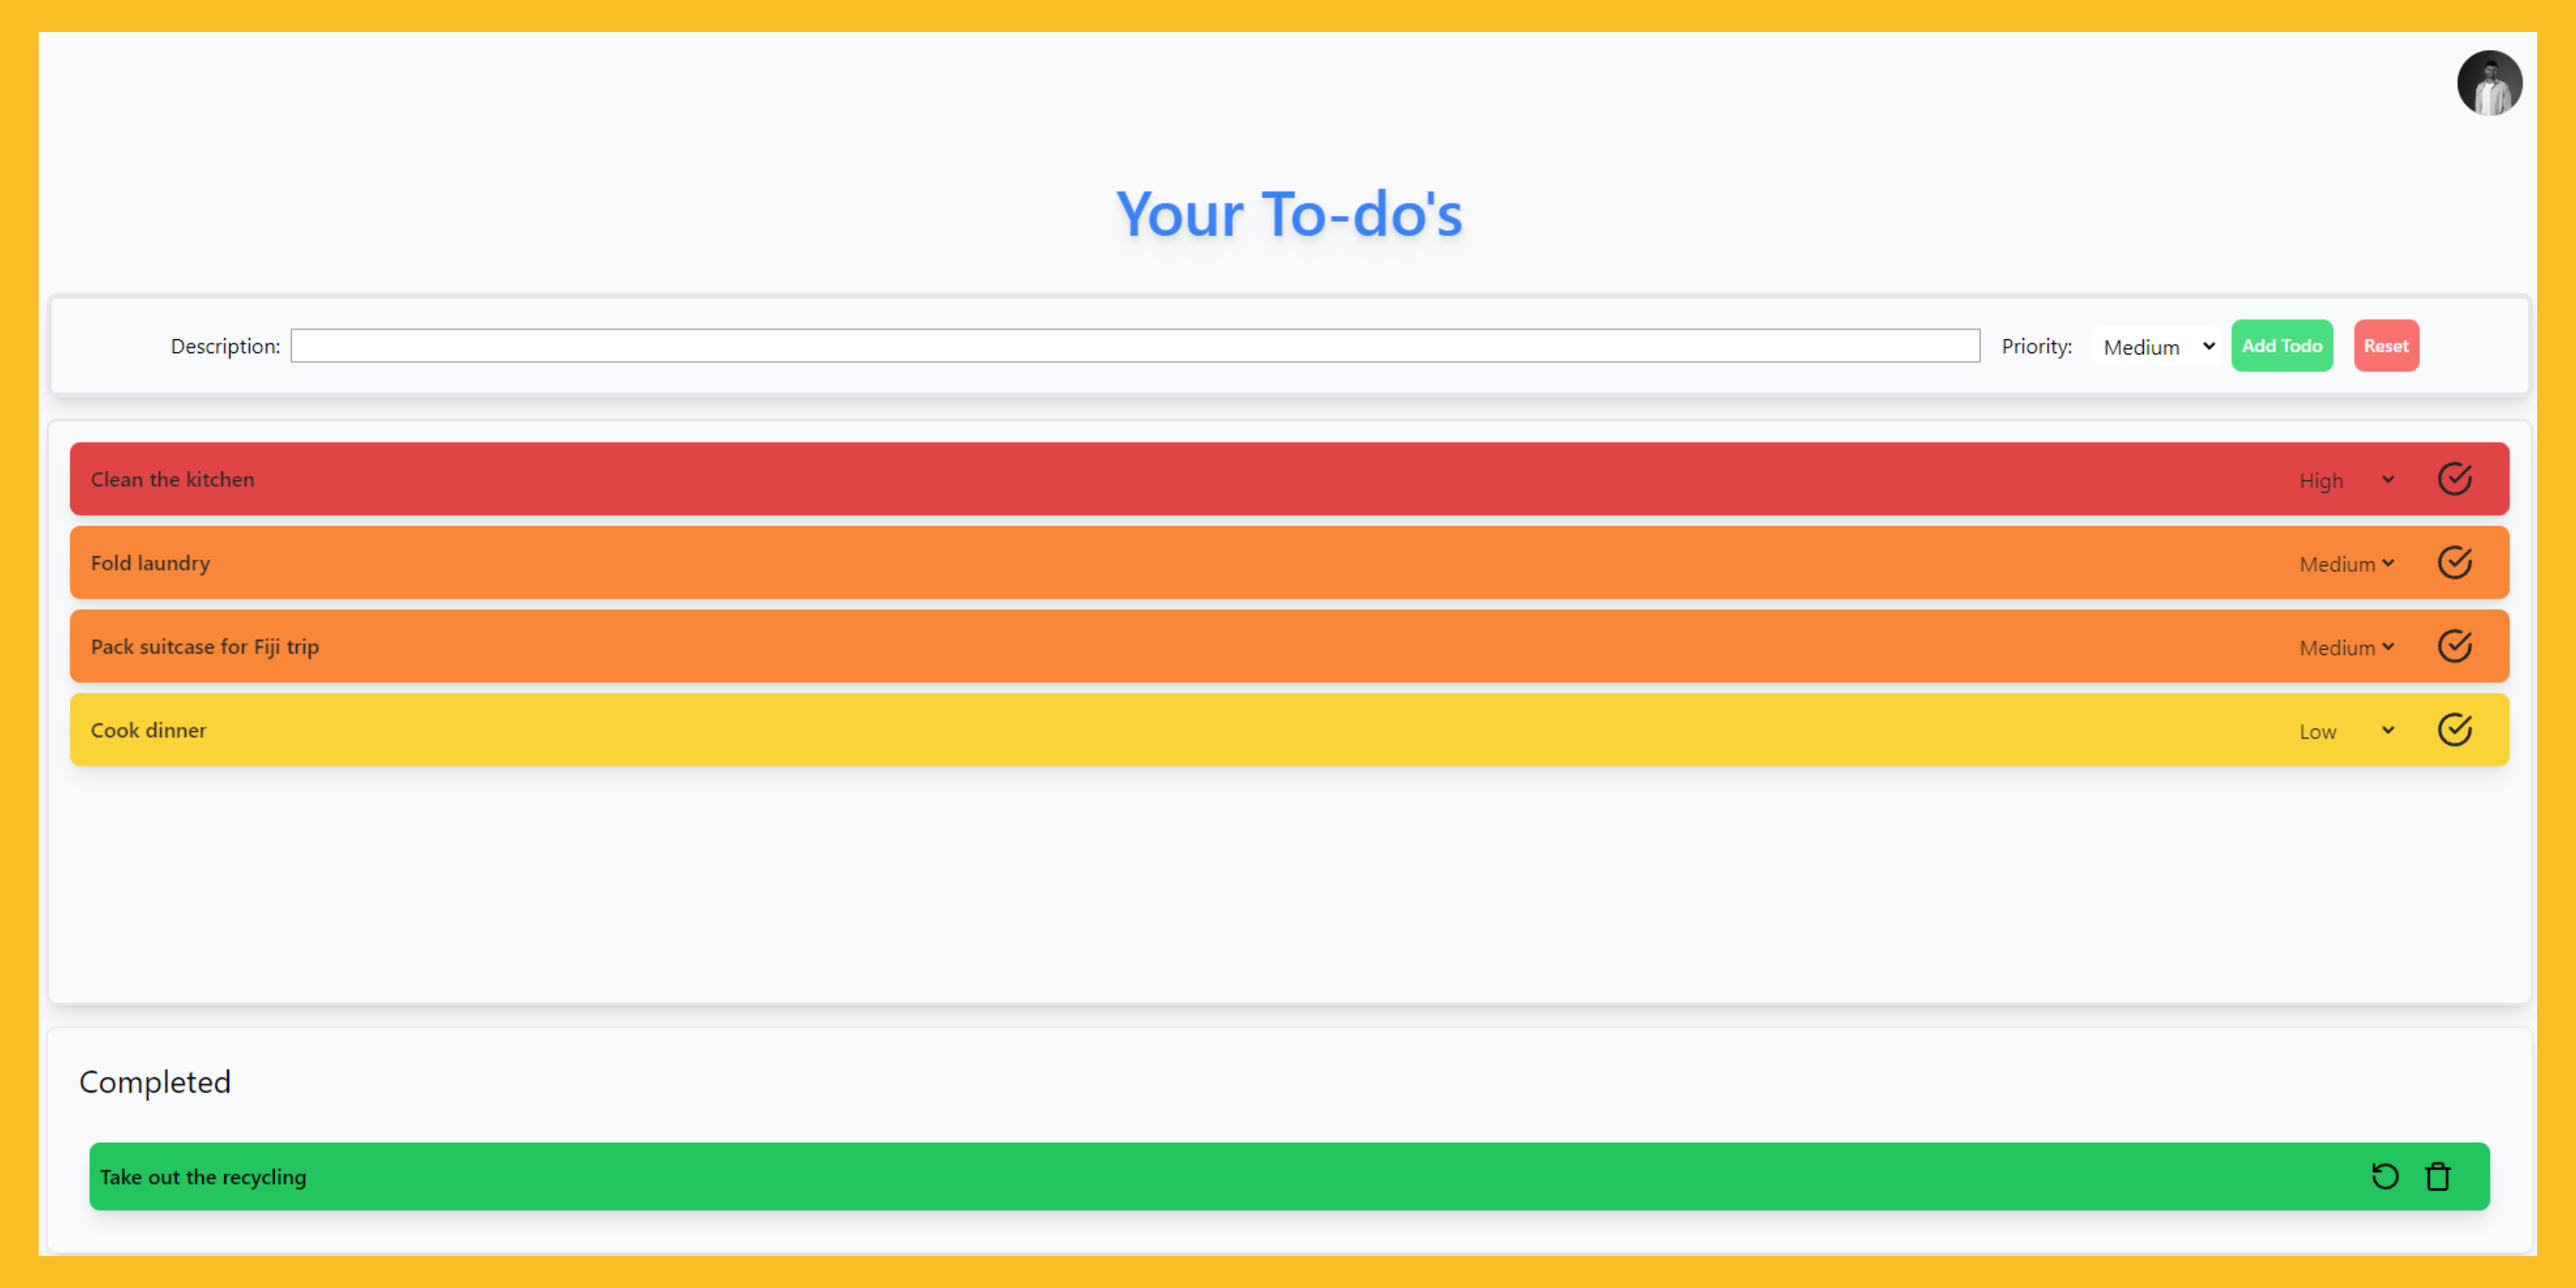
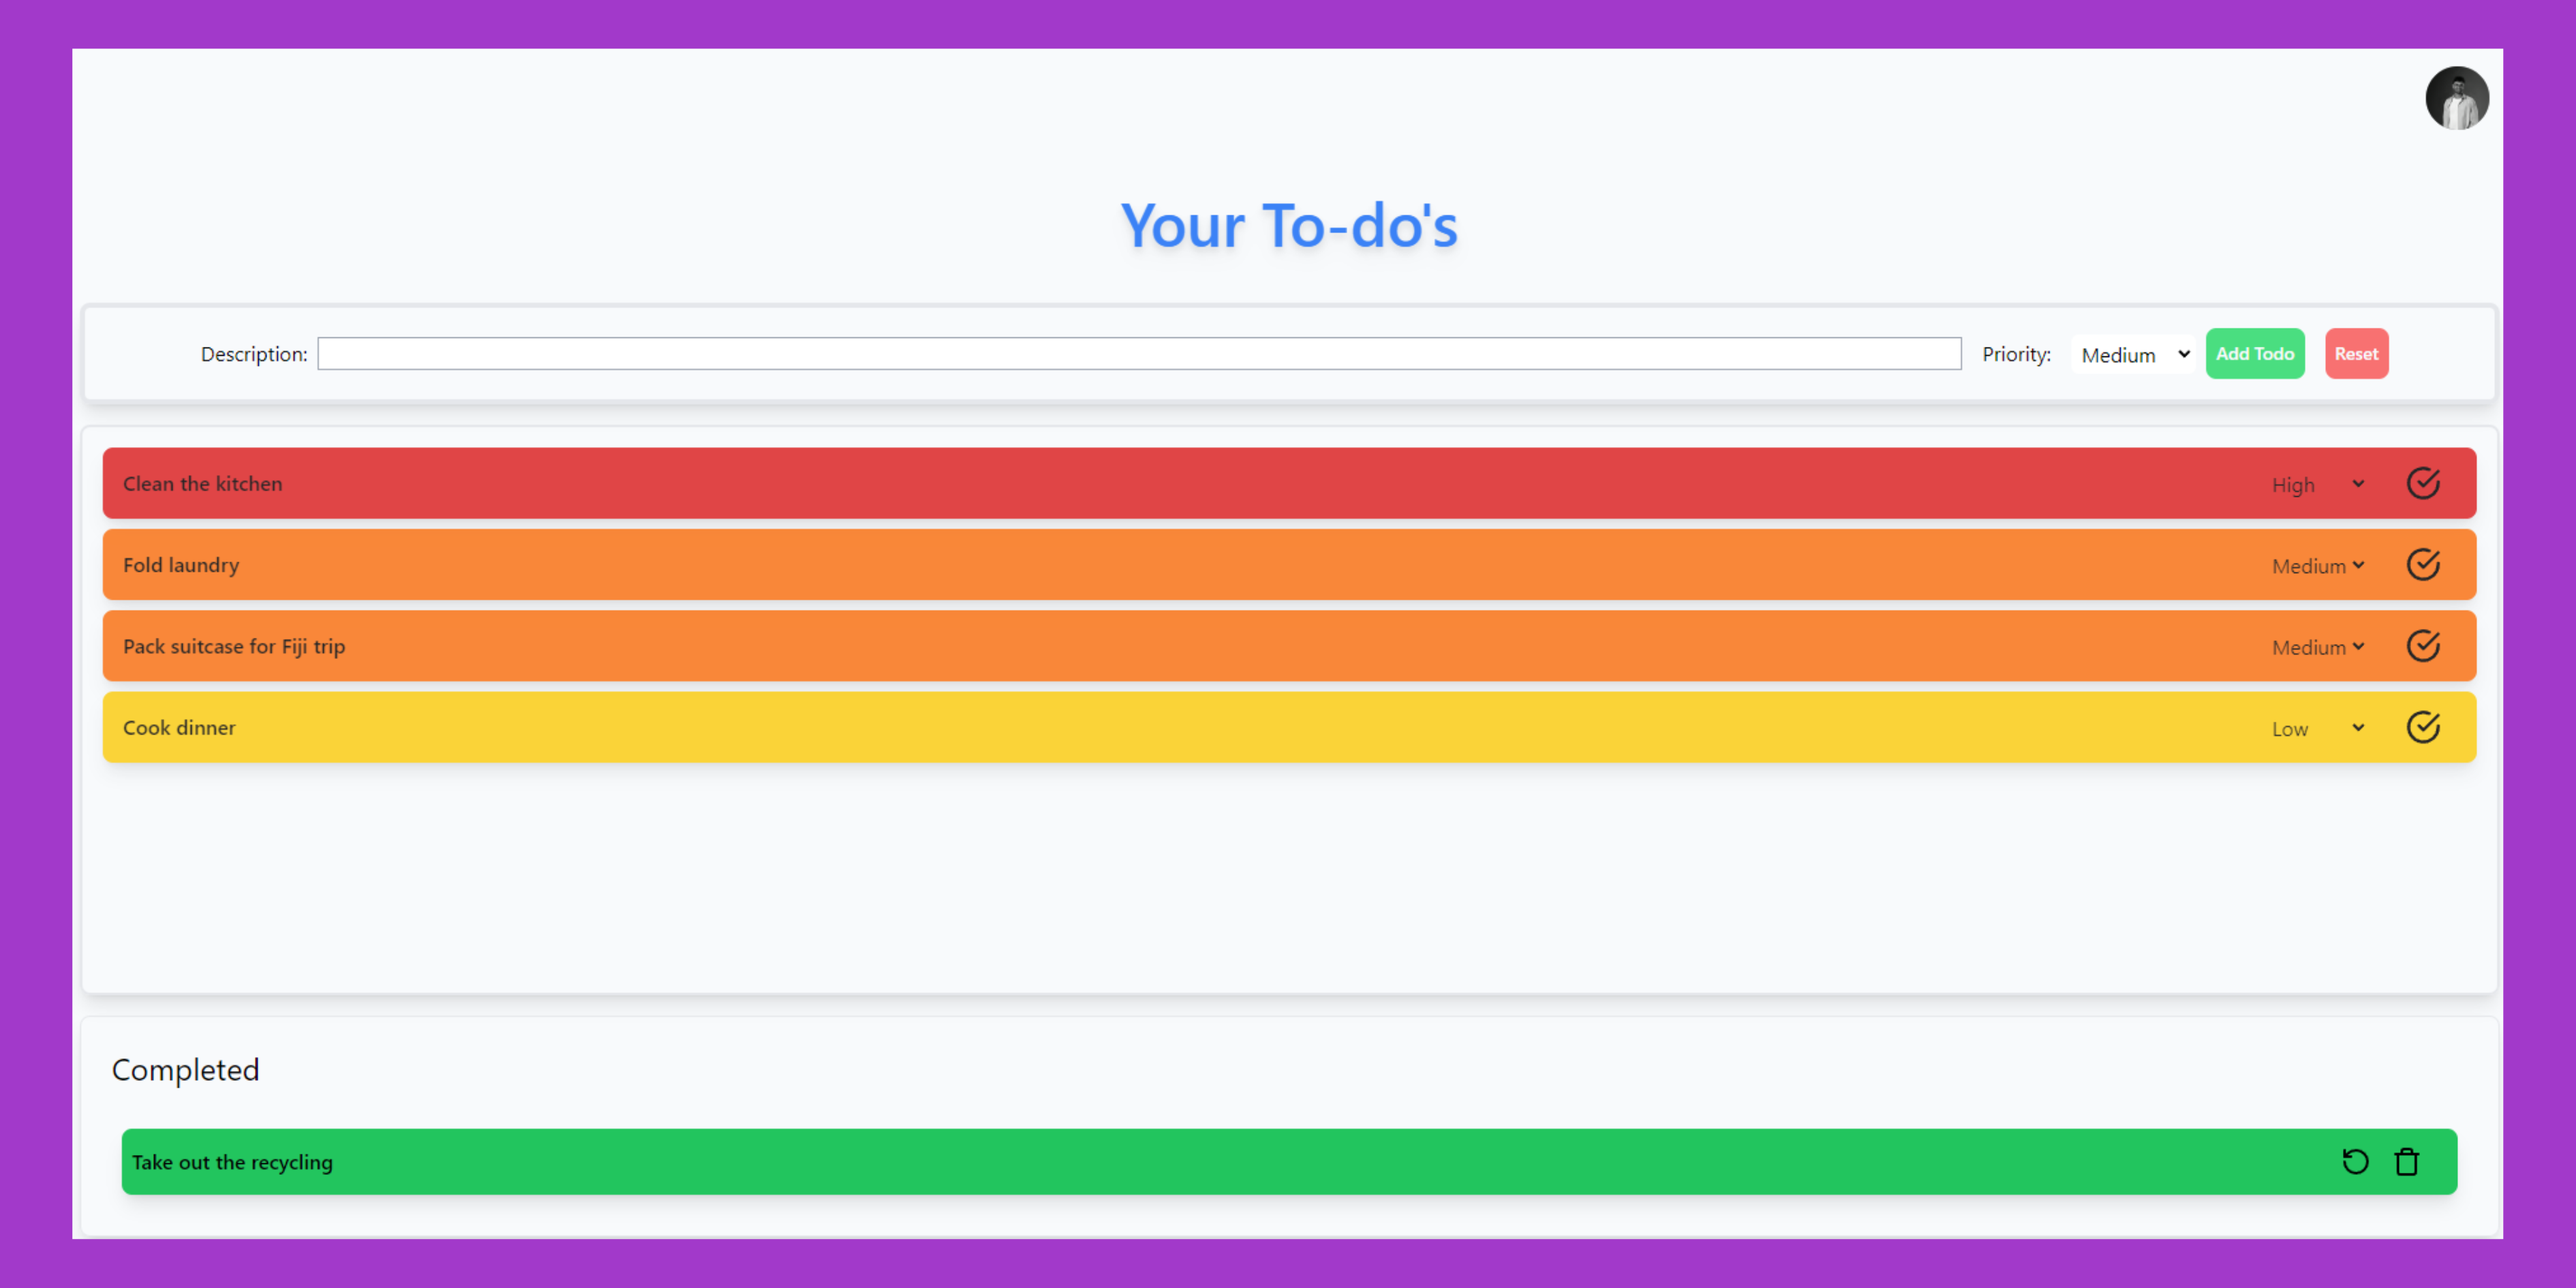
Update the project image backgrounds

Changed region(s): [[0.0, 0.0, 1.0, 1.0], [0.0624, 0.2497, 0.9365, 0.3122], [0.437, 0.1561, 0.5931, 0.1873]]

diff --git a/src/app/(navigation)/projects/page.tsx b/src/app/(navigation)/projects/page.tsx
@@ -17,33 +17,33 @@ const Page = () => {
                         />
                     </div>
                     <div className='flex flex-col p-2  items-center justify-center flex-1'>
-                        <h2 className='text-4xl p-2 font-medium' >Todo board</h2>
+                        <h2 className='text-4xl p-2 font-medium' >To-do board</h2>
                         <p className='p-2 text-lg mt-3' >Full stack application of a todo board built with Next.js, React, Clerk, Mongodb, Mongoose and Atlas.</p>
-                        <Link className='p-2 m-2 text-xl underline underline-offset-8 underline-fuchsia hover:bg-fuchsia-600 rounded-md' href={'https://todo-list-ouwon6bdv-jenishspatels-projects.vercel.app/'} target='_blank'>LIVE APP</Link>
-                        <Link className='p-2 m-2 text-xl underline underline-offset-8 underline-fuchsia hover:bg-fuchsia-600 rounded-md' href={'https://github.com/jenishpatel-jp/to-do-list'} target='_blank'>LEARN MORE</Link>
+                        <Link className='p-2 m-2 text-xl underline underline-offset-8 underline-fuchsia hover:bg-fuchsia rounded-md' href={'https://todo-list-ouwon6bdv-jenishspatels-projects.vercel.app/'} target='_blank'>LIVE APP</Link>
+                        <Link className='p-2 m-2 text-xl underline underline-offset-8 underline-fuchsia hover:bg-fuchsia rounded-md' href={'https://github.com/jenishpatel-jp/to-do-list'} target='_blank'>LEARN MORE</Link>
                     </div>
                 </div>
                 <div className='flex flex-col lg:flex-row mb-8' >
                     <div className='flex  justify-center items-center flex-1'>
                     <Image
-                            src={"/project-screenshots/Shopping run screenshot.png"}
+                            src={"/project-screenshots/shopping-run.png"}
                             alt="Screenshot of the Shopping Run app"
-                            width={300}
-                            height={600}
+                            width={900}
+                            height={500}
                             className=' justify-center'
                         />
                     </div>
                     <div className='flex flex-col p-2  items-center justify-center flex-1'>
                         <h2 className='text-4xl p-2 font-medium' >Shopping Run</h2>
                         <p className='p-2 text-lg mt-3' >A mobile application created using Expo and React Native for your shopping run. The app allows you to separate items based on the stores you&apos;re going to.</p>
-                        <Link className='p-2 m-2 text-xl underline underline-offset-8 underline-fuchsia hover:bg-fuchsia-600 rounded-md' href={'/projects/shopping-run'} replace>LIVE APP</Link>
-                        <Link className='p-2 m-2 text-xl underline underline-offset-8 underline-fuchsia hover:bg-fuchsia-600 rounded-md' href={'https://github.com/jenishpatel-jp/shopping-run-2'} target='_blank'>LEARN MORE</Link>
+                        <Link className='p-2 m-2 text-xl underline underline-offset-8 underline-fuchsia hover:bg-fuchsia rounded-md' href={'/projects/shopping-run'} replace>LIVE APP</Link>
+                        <Link className='p-2 m-2 text-xl underline underline-offset-8 underline-fuchsia hover:bg-fuchsia rounded-md' href={'https://github.com/jenishpatel-jp/shopping-run-2'} target='_blank'>LEARN MORE</Link>
                     </div>
                 </div>
                 <div className='flex flex-col lg:flex-row mb-8'>
                     <div className='flex items-center justify-center p-2 rounded-md flex-1'>
                         <Image
-                            src={"/project-screenshots/Reddit mini screenshot.png"}
+                            src={"/project-screenshots/reddit.png"}
                             alt="Screenshot of the Reddit mini app"
                             width={900}
                             height={500}
@@ -52,14 +52,14 @@ const Page = () => {
                     <div className='flex flex-col p-2 items-center justify-center flex-1'>
                         <h2 className='text-4xl p-2 font-medium' >Reddit mini</h2>
                         <p className='p-2 text-lg mt-3' >A Reddit integrated web application built using Next.js and NextAuth.js</p>
-                        <Link className='p-2 m-2 text-xl underline underline-offset-8 underline-fuchsia hover:bg-fuchsia-600 rounded-md' href={'https://reddit-mini-five.vercel.app/'} target='_blank'>LIVE APP</Link>
-                        <Link className='p-2 m-2 text-xl underline underline-offset-8 underline-fuchsia hover:bg-fuchsia-600 rounded-md' href={'https://github.com/jenishpatel-jp/reddit-mini'} target='_blank'>LEARN MORE</Link>
+                        <Link className='p-2 m-2 text-xl underline underline-offset-8 underline-fuchsia hover:bg-fuchsia rounded-md' href={'https://reddit-mini-five.vercel.app/'} target='_blank'>LIVE APP</Link>
+                        <Link className='p-2 m-2 text-xl underline underline-offset-8 underline-fuchsia hover:bg-fuchsia rounded-md' href={'https://github.com/jenishpatel-jp/reddit-mini'} target='_blank'>LEARN MORE</Link>
                     </div>
                 </div>
                 <div className='flex flex-col lg:flex-row mb-8'>
                     <div className='flex items-center justify-center p-2  flex-1'>
                         <Image
-                            src={"/project-screenshots/Jammming screenshot.png"}
+                            src={"/project-screenshots/Jammming.png"}
                             alt="Screenshot of the Jammming app"
                             width={900}
                             height={500}
@@ -68,8 +68,8 @@ const Page = () => {
                     <div className='flex flex-col p-2 items-center justify-center flex-1'>
                         <h2 className='text-4xl p-2 font-medium' >Jammming</h2>
                         <p className='p-2 text-lg mt-3' >A Spotify integrated web application built using Next.js and NextAuth.js allowing you to create a new playlist on your Spotify account.</p>
-                        <Link className='p-2 m-2 text-xl underline underline-offset-8 underline-fuchsia hover:bg-fuchsia-600 rounded-md' href={'https://jammming-spotify-project.vercel.app/'} target='_blank'>LIVE APP</Link>
-                        <Link className='p-2 m-2 text-xl underline underline-offset-8 underline-fuchsia hover:bg-fuchsia-600 rounded-md' href={'https://github.com/jenishpatel-jp/jammming-spotify-project'} target='_blank'>LEARN MORE</Link>
+                        <Link className='p-2 m-2 text-xl underline underline-offset-8 underline-fuchsia hover:bg-fuchsia rounded-md' href={'https://jammming-spotify-project.vercel.app/'} target='_blank'>LIVE APP</Link>
+                        <Link className='p-2 m-2 text-xl underline underline-offset-8 underline-fuchsia hover:bg-fuchsia rounded-md' href={'https://github.com/jenishpatel-jp/jammming-spotify-project'} target='_blank'>LEARN MORE</Link>
                     </div>
                 </div>
             </div>

diff --git a/src/app/(navigation)/contact/page.tsx b/src/app/(navigation)/contact/page.tsx
@@ -75,14 +75,14 @@ const Page = () => {
 
     return (
         <div className='flex flex-col min-h-screen items-center bg-void text-stark '>
-            <h1 className='my-4 text-5xl p-3 w-full text-center mt-10 underline underline-offset-8 underline-orange'>Contact</h1>
+            <h1 className='my-4 text-5xl p-3 w-full text-center mt-10 underline underline-offset-8 underline-fuchsia'>Contact</h1>
 
             <form onSubmit={handleSubmit} ref={form} className='flex flex-1 flex-col w-5/6 md:w-4/6 lg:w-2/6 mt-20'>
 
                 <label className='p-2 text-lg'>Name</label>
                 <input 
                 placeholder='John/Jane Doe' 
-                className={`p-3 focus:outline-orange-400 bg-stone-500 placeholder:text-stark rounded-md`}
+                className={`p-3 focus:outline-fuchsia bg-stone-500 placeholder:text-stark rounded-md`}
                 value={name}
                 onChange={handleNameChange}
                 name="user_name"
@@ -91,7 +91,7 @@ const Page = () => {
                 <label className='p-2 text-lg'>Email</label>
                 <input 
                 placeholder='email@gmail.com' 
-                className={`p-3 focus:outline-orange-400 bg-stone-500 placeholder:text-stark rounded-md`}
+                className={`p-3 focus:outline-fuchsia bg-stone-500 placeholder:text-stark rounded-md`}
                 value={email}
                 onChange={handleEmailChange}
                 name="user_email"
@@ -100,14 +100,14 @@ const Page = () => {
                 <label className='p-2 text-lg'>Message</label>
                 <textarea 
                 name="message"
-                className={`p-3 focus:outline-orange-400 bg-stone-500 placeholder:text-stark rounded-md`}
+                className={`p-3 focus:outline-fuchsia bg-stone-500 placeholder:text-stark rounded-md`}
                 value={message}
                 onChange={handleMessageChange}
     
                 />
 
                 <div className='flex flex-row-reverse my-2'>
-                    <button type="submit" className='rounded my-4 p-4 items-end w-fit text-xl underline underline-offset-8 underline-orange hover:bg-orange-400'>Submit</button>
+                    <button type="submit" className='rounded my-4 p-4 items-end w-fit text-xl underline underline-offset-8 underline-fuchsia hover:bg-fuchsia'>Submit</button>
                 </div>
             </form>
         </div>

diff --git a/src/app/page.tsx b/src/app/page.tsx
@@ -2,7 +2,7 @@ export default function Home() {
   return (
     <main className="flex flex-col min-h-screen items-center justify-center bg-void">
         <h2 className="text-stark w-full text-center text-5xl mb-5 " >
-          Hello, I&apos;m <span className="text-fuschia" >Jenish</span>.
+          Hello, I&apos;m <span className="text-fuchsia" >Jenish</span>.
         </h2>
         <h2 className="text-stark w-full text-center text-5xl">
           I&apos;m a Full Stack Developer.

diff --git a/src/app/globals.css b/src/app/globals.css
@@ -4,7 +4,7 @@
 
 @layer components {
   .nav {
-    @apply px-4 py-2 m-1 rounded-md hover:text-fuchsia-600 cursor-pointer text-lg lg:text-xl
+    @apply px-4 py-2 m-1 rounded-md hover:text-fuchsia cursor-pointer text-lg lg:text-xl
   }
 
   .skills {
@@ -14,5 +14,5 @@
 }
 
 .underline-fuchsia {
-  text-decoration-color:#c026d3;
+  text-decoration-color:#A239CA;
 }

diff --git a/tailwind.config.ts b/tailwind.config.ts
@@ -16,7 +16,7 @@ const config: Config = {
       colors: {
         'jewel':'#4717F6',
         'void':'#0E0B16',
-        'fuschia': '#A239CA',
+        'fuchsia': '#A239CA',
         'stark':'#E7DFDD',
       }
     },
